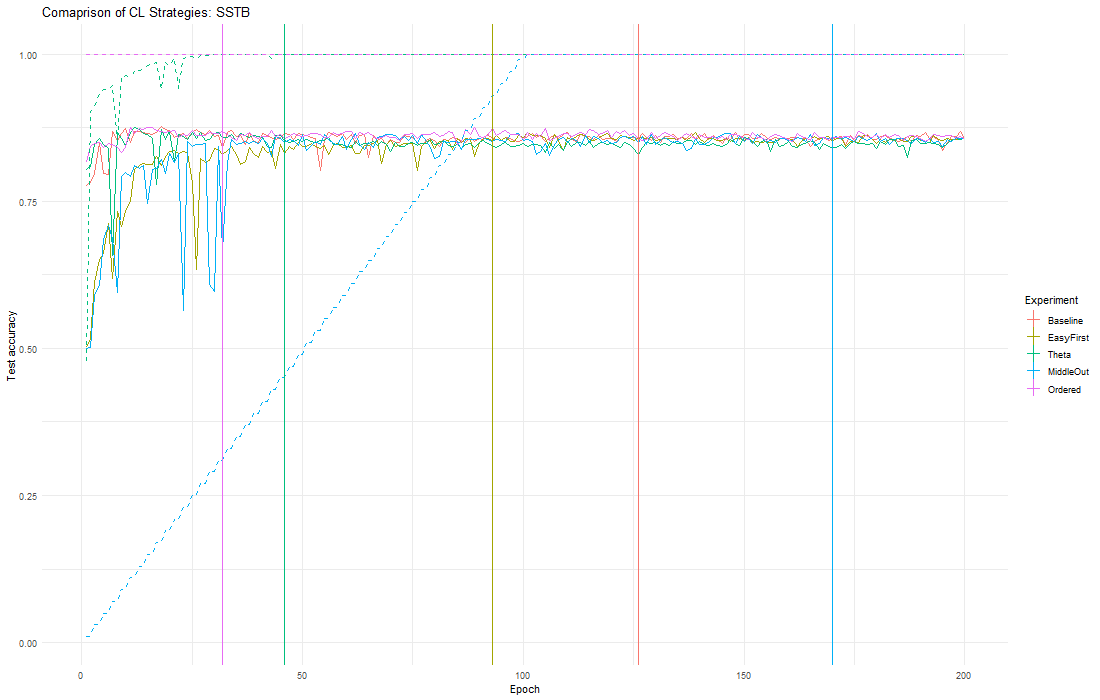
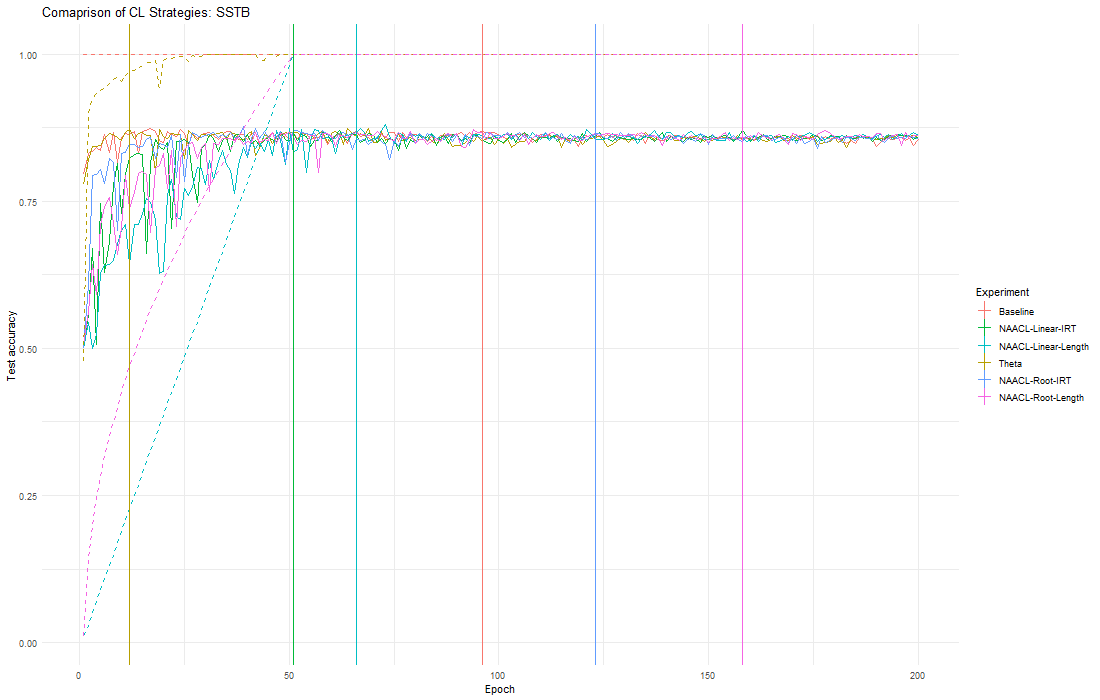
update cifar and sstb plots

diff --git a/reports/aaai2020/main.tex b/reports/aaai2020/main.tex
@@ -450,7 +450,7 @@ This is critical because at a given training epoch, there is a chance that less 
 	\end{subfigure} 
 	\begin{subfigure}[b]{0.45\textwidth}
 		\centering
-		\includegraphics[width=0.9\columnwidth]{figs/cl_sstb}
+		\includegraphics[width=0.9\columnwidth]{figs/cl_irt_sstb}
 		\caption{\label{fig:cl_sstb}} 
 		\vspace{-2em} 
 	\end{subfigure} 
